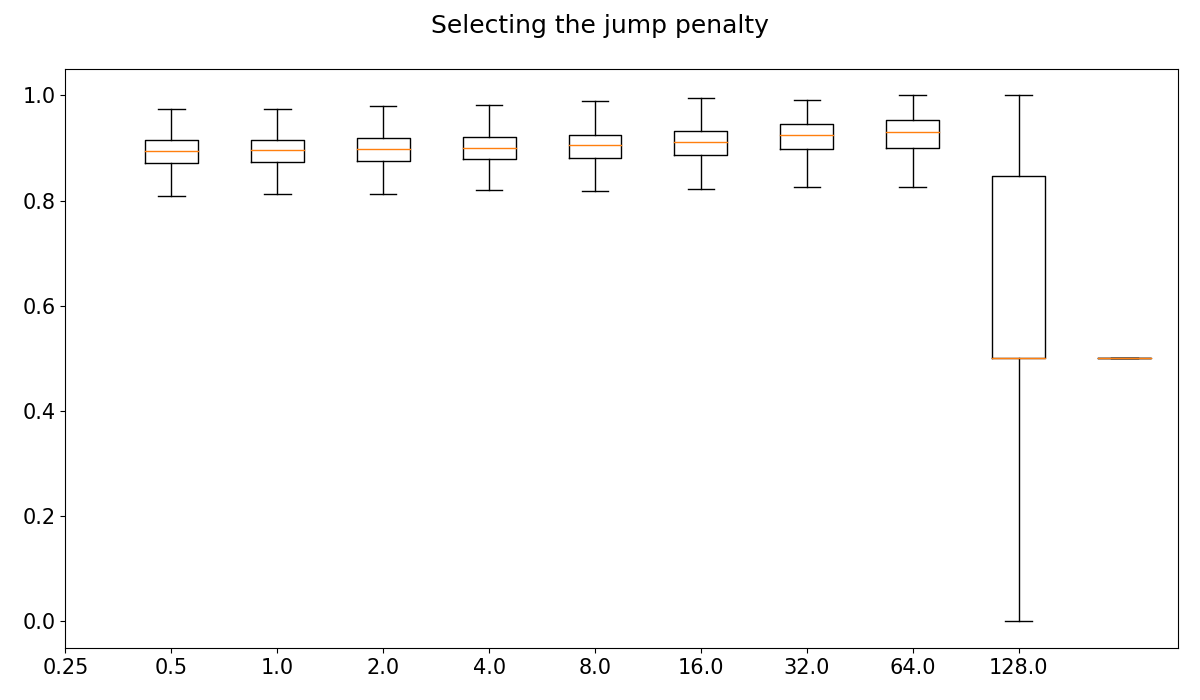
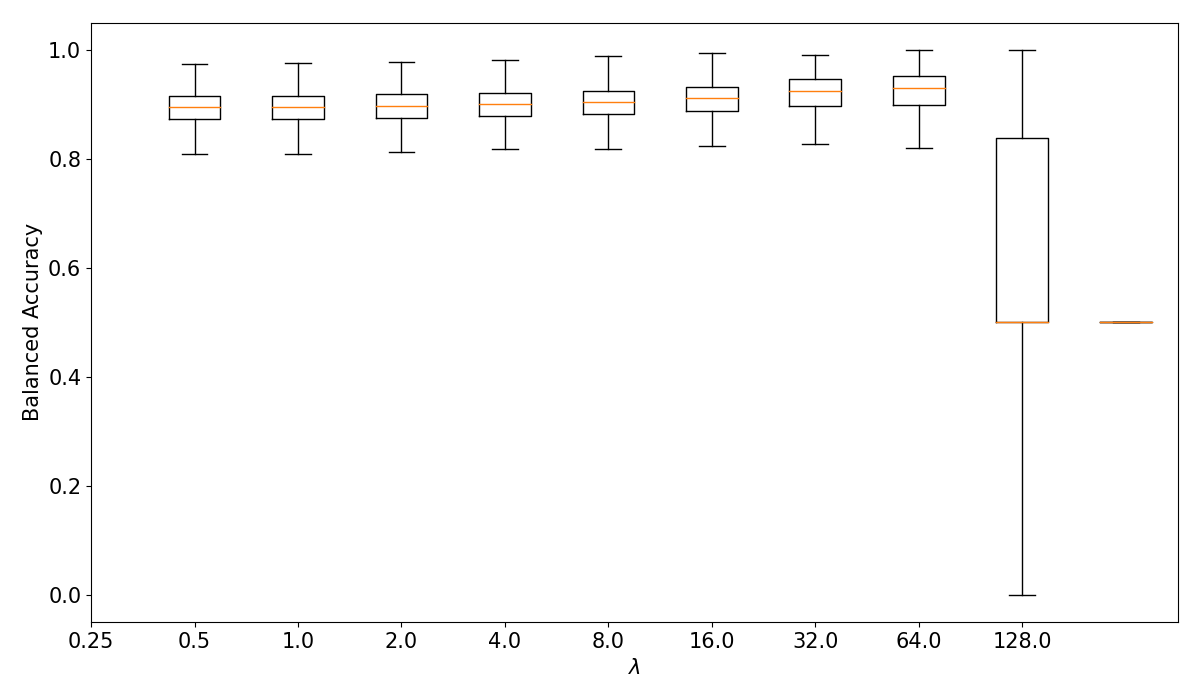
Updated output in simulation section

diff --git a/analysis/model_convergence/simulation.py b/analysis/model_convergence/simulation.py
@@ -13,46 +13,48 @@ import warnings
 warnings.filterwarnings("ignore")
 
 
-def test_model_convergence(jump, mle, X, sample_lengths=(250, 500, 1000, 2000)):
+def test_model_convergence(jump, mle, sampler, X, sample_lengths=(250, 500, 1000, 2000)):
     """ Test model convergence on simulated data """
     df = pd.DataFrame()
 
     # Set attributes to be saved in simulation
     cols = {
-        'mu_1': [], 'mu_2': [],
-        'std_1': [], 'std_2': [],
-        'tpm_11': [], 'tpm_22': []
+        '$\mu_1$': [], '$\mu_2$': [],
+        '$\std_1$': [], '$\std_2$': [],
+        '$q_11$': [], '$q_22$': []
     }
 
+    # Compute models params for each sample length
     for sample_length in tqdm.tqdm(sample_lengths):
         # Load empty dictionaries for each run
         data = {'jump': copy.deepcopy(cols),
                 'mle': copy.deepcopy(cols)
                 }
 
+        # Iterate through each sequence
         for seq in tqdm.tqdm(range(X.shape[1])):
             jump.fit(X[:sample_length, seq], sort_state_seq=True, get_hmm_params=True, verbose=True)
             mle.fit(X[:sample_length, seq], sort_state_seq=True, verbose=True)
 
-            data['jump']['mu_1'].append(jump.mu[0])
-            data['jump']['mu_2'].append(jump.mu[1])
-            data['jump']['std_1'].append(jump.std[0])
-            data['jump']['std_2'].append(jump.std[1])
-            data['jump']['tpm_11'].append(jump.tpm[0, 0])
+            data['jump']['$\mu_1$'].append(jump.mu[0])
+            data['jump']['$\mu_2$'].append(jump.mu[1])
+            data['jump']['$\std_1$'].append(jump.std[0])
+            data['jump']['$\std_2$'].append(jump.std[1])
+            data['jump']['$q_11$'].append(jump.tpm[0, 0])
             if len(jump.tpm) > 1:
-                data['jump']['tpm_22'].append(jump.tpm[1, 1])
+                data['jump']['$q_22$'].append(jump.tpm[1, 1])
             else:
-                data['jump']['tpm_22'].append(0)
+                data['jump']['$q_22$'].append(0)
 
-            data['mle']['mu_1'].append(mle.mu[0])
-            data['mle']['mu_2'].append(mle.mu[1])
-            data['mle']['std_1'].append(mle.std[0])
-            data['mle']['std_2'].append(mle.std[1])
-            data['mle']['tpm_11'].append(mle.tpm[0, 0])
+            data['mle']['$\mu_1$'].append(mle.mu[0])
+            data['mle']['$\mu_2$'].append(mle.mu[1])
+            data['mle']['$\std_1$'].append(mle.std[0])
+            data['mle']['$\std_2$'].append(mle.std[1])
+            data['mle']['$q_11$'].append(mle.tpm[0, 0])
             if len(mle.tpm) > 1:
-                data['mle']['tpm_22'].append(mle.tpm[1, 1])
+                data['mle']['$q_22$'].append(mle.tpm[1, 1])
             else:
-                data['mle']['tpm_22'].append(0)
+                data['mle']['$q_22$'].append(0)
 
         for model in data.keys():
             df_temp = pd.DataFrame(data[model])
@@ -64,43 +66,30 @@ def test_model_convergence(jump, mle, X, sample_lengths=(250, 500, 1000, 2000)):
     for sample_length in sample_lengths:
         true_data = \
             {'model': 'true',
-             'mu_1': sampler.mu[0],
-             'mu_2': sampler.mu[1],
-             'std_1': sampler.std[0],
-             'std_2': sampler.std[1],
-             'tpm_11': sampler.tpm[0, 0],
-             'tpm_22': sampler.tpm[1, 1],
+             '$\mu_1$': sampler.mu[0],
+             '$\mu_2$': sampler.mu[1],
+             '$\std_1$': sampler.std[0],
+             '$\std_2$': sampler.std[1],
+             '$q_11$': sampler.tpm[0, 0],
+             '$q_22$': sampler.tpm[1, 1],
              'sample_size': sample_length
              }
         df = df.append(pd.DataFrame(true_data, index=[0]))
 
     return df
 
-if __name__ == '__main__':
-    jump = JumpHMM(n_states=2, jump_penalty=16, window_len=(6, 14))
-    mle = EMHiddenMarkov(n_states=2)
-    sampler = SampleHMM(n_states=2)
-
-    path = '../../analysis/model_convergence/output_data/'
-    X = np.load(path + 'sampled_returns.npy')
-    true_states = np.load(path + 'sampled_true_states.npy')
-
-    df = pd.read_csv(path + 'simulation_normal.csv')
-    #df = test_model_convergence(jump, mle, X, sample_lengths=(250, 500, 1000, 2000))
-
-
-
+def plot_simulated_model_convergence(df, sampler, savefig=None):
     # Plotting
     plt.rcParams.update({'font.size': 15})
-    fig, ax = plt.subplots(3, 2, figsize=(15, 10), sharex=True)
+    fig, ax = plt.subplots(3, 2, figsize=(15, 12), sharex=True)
 
     # Set symbols on y-axis
     symbol_list = [['$\mu_1$', '$\mu_2$'],
-                   ['$\sigma^2_1$', '$\sigma^2_2$'],
+                   ['$\sigma_1$', '$\sigma_2$'],
                    ["$p_{11}$", "$p_{22}$"]]
 
     models = ['jump', 'mle']
-    colors = ['black', 'lightgrey'] #['#0051a2', '#97964a', '#ffd44f', '#f4777f', '#93003a']
+    colors = ['black', 'lightgrey']  # ['#0051a2', '#97964a', '#ffd44f', '#f4777f', '#93003a']
 
     for (model, color) in zip(models, colors):
         # Slice df to get desired column
@@ -125,10 +114,27 @@ if __name__ == '__main__':
     ax[-1, 0].set_xlabel('Simulation length')
     ax[-1, 1].set_xlabel('Simulation length')
     plt.tight_layout()
-    #plt.savefig('./images/simulation_normal.png')
+
+    if not savefig == None:
+        plt.savefig('./images/' + savefig)
     plt.show()
 
 
+if __name__ == '__main__':
+    jump = JumpHMM(n_states=2, jump_penalty=16, window_len=(6, 14))
+    mle = EMHiddenMarkov(n_states=2)
+    sampler = SampleHMM(n_states=2)
+
+    path = '../../analysis/model_convergence/output_data/'
+    X = np.load(path + 'sampled_returns.npy')
+    true_states = np.load(path + 'sampled_true_states.npy')
+
+    df = pd.read_csv(path + 'simulation_normal.csv')
+    #df = test_model_convergence(jump, mle, sampler, X, sample_lengths=(250, 500, 1000, 2000))
+
+    plot_simulated_model_convergence(df, sampler, savefig='simulation_normal.png')
+
+
     data_table = df.groupby(['sample_size', 'model']).mean().sort_index(ascending=[True, False])
-    #data_table.to_latex(path + 'simulation_normal.tex')
+    data_table.to_latex(path + 'simulation_normal.tex')
     print(data_table)

diff --git a/analysis/model_convergence/simulation_t_dist.py b/analysis/model_convergence/simulation_t_dist.py
@@ -6,75 +6,13 @@ import tqdm
 import matplotlib.pyplot as plt
 
 from utils.hmm_sampler import SampleHMM
+from analysis.model_convergence.simulation import test_model_convergence, plot_simulated_model_convergence
 from models.hidden_markov.hmm_gaussian_em import EMHiddenMarkov
 from models.hidden_markov.hmm_jump import JumpHMM
 
 import warnings
 warnings.filterwarnings("ignore")
 
-
-def test_model_convergence(jump, mle, X, sample_lengths=(250, 500, 1000, 2000)):
-    """ Test model convergence on simulated data """
-    df = pd.DataFrame()
-
-    # Set attributes to be saved in simulation
-    cols = {
-        'mu_1': [], 'mu_2': [],
-        'std_1': [], 'std_2': [],
-        'tpm_11': [], 'tpm_22': []
-    }
-
-    for sample_length in tqdm.tqdm(sample_lengths):
-        # Load empty dictionaries for each run
-        data = {'jump': copy.deepcopy(cols),
-                'mle': copy.deepcopy(cols)
-                }
-
-        for seq in tqdm.tqdm(range(X.shape[1])):
-            jump.fit(X[:sample_length, seq], sort_state_seq=True, get_hmm_params=True, verbose=True)
-            mle.fit(X[:sample_length, seq], sort_state_seq=True, verbose=True)
-
-            data['jump']['mu_1'].append(jump.mu[0])
-            data['jump']['mu_2'].append(jump.mu[1])
-            data['jump']['std_1'].append(jump.std[0])
-            data['jump']['std_2'].append(jump.std[1])
-            data['jump']['tpm_11'].append(jump.tpm[0, 0])
-            if len(jump.tpm) > 1:
-                data['jump']['tpm_22'].append(jump.tpm[1, 1])
-            else:
-                data['jump']['tpm_22'].append(0)
-
-            data['mle']['mu_1'].append(mle.mu[0])
-            data['mle']['mu_2'].append(mle.mu[1])
-            data['mle']['std_1'].append(mle.std[0])
-            data['mle']['std_2'].append(mle.std[1])
-            data['mle']['tpm_11'].append(mle.tpm[0, 0])
-            if len(mle.tpm) > 1:
-                data['mle']['tpm_22'].append(mle.tpm[1, 1])
-            else:
-                data['mle']['tpm_22'].append(0)
-
-        for model in data.keys():
-            df_temp = pd.DataFrame(data[model])
-            df_temp['model'] = model
-            df_temp['sample_size'] = sample_length
-            df = df.append(df_temp)
-
-    # Add true values to data
-    for sample_length in sample_lengths:
-        true_data = \
-            {'model': 'true',
-             'mu_1': sampler.mu[0],
-             'mu_2': sampler.mu[1],
-             'std_1': sampler.std[0],
-             'std_2': sampler.std[1],
-             'tpm_11': sampler.tpm[0, 0],
-             'tpm_22': sampler.tpm[1, 1],
-             'sample_size': sample_length
-             }
-        df = df.append(pd.DataFrame(true_data, index=[0]))
-
-    return df
 
 if __name__ == '__main__':
     jump = JumpHMM(n_states=2, jump_penalty=16, window_len=(6, 14))
@@ -86,46 +24,11 @@ if __name__ == '__main__':
     true_states = np.load(path + 'sampled_t_true_states.npy')
 
     df = pd.read_csv(path + 'simulation_t.csv')
-    #df = test_model_convergence(jump, mle, X, sample_lengths=(250, 500, 1000, 2000))
+    df = test_model_convergence(jump, mle, sampler, X, sample_lengths=(250, 500, 1000, 2000))
 
-    # Plotting
-    plt.rcParams.update({'font.size': 15})
-    fig, ax = plt.subplots(3, 2, figsize=(15, 10), sharex=True)
-
-    # Set symbols on y-axis
-    symbol_list = [['$\mu_1$', '$\mu_2$'],
-                   ['$\sigma^2_1$', '$\sigma^2_2$'],
-                   ["$p_{11}$", "$p_{22}$"]]
-
-    models = ['jump', 'mle']
-    colors = ['black', 'lightgrey'] #['#0051a2', '#97964a', '#ffd44f', '#f4777f', '#93003a']
-
-    for (model, color) in zip(models, colors):
-        # Slice df to get desired column
-        to_plot = df[df['model'] == model]
-        to_plot = to_plot.groupby('sample_size').mean()
-        k = 0  # columns indexer
-        for i in range(3):
-            for j in range(2):
-                to_plot1 = to_plot.iloc[:, k]  # column to plot
-                ax[i, j].plot(to_plot1, label=str(model), color=color)
-                ax[i, j].set_ylabel(symbol_list[i][j])
-                k += 1
-
-    # Plot true values
-    for i in range(2):
-        ax[0, i].axhline(y=sampler.mu[i], ls="--", color="black", label='True')
-        ax[1, i].axhline(y=sampler.std[i], ls="--", color="black", label='True')
-        ax[2, i].axhline(y=sampler.tpm[i, i], ls="--", color="black", label='True')
-
-    ax[0, 0].legend()
-    ax[-1, 0].set_xlabel('Simulation length')
-    ax[-1, 1].set_xlabel('Simulation length')
-    plt.tight_layout()
-    #plt.savefig('./images/simulation_t.png')
-    plt.show()
+    plot_simulated_model_convergence(df, sampler, savefig='simulation_t.png')
 
 
     data_table = df.groupby(['sample_size', 'model']).mean().sort_index(ascending=[True, False])
-    #data_table.to_latex(path + 'simulation_t.tex')
+    data_table.to_latex(path + 'simulation_t.tex')
     print(data_table)

diff --git a/analysis/model_convergence/output_data/simulation_t.tex b/analysis/model_convergence/output_data/simulation_t.tex
@@ -1,6 +1,6 @@
 \begin{tabular}{llrrrrrr}
 \toprule
-     &      &      mu\_1 &      mu\_2 &     std\_1 &     std\_2 &    tpm\_11 &    tpm\_22 \\
+     &      &   \$\textbackslash mu\_1\$ &   \$\textbackslash mu\_2\$ &  \$\textbackslash std\_1\$ &  \$\textbackslash std\_2\$ &    \$q\_11\$ &    \$q\_22\$ \\
 sample\_size & model &           &           &           &           &           &           \\
 \midrule
 250  & true &  0.000615 & -0.000785 &  0.007759 &  0.017397 &  0.997900 &  0.988000 \\
@@ -12,7 +12,7 @@ sample\_size & model &           &           &           &           &          
      & jump &  0.000640 & -0.000103 &  0.009677 &  0.019699 &  0.985360 &  0.945942 \\
      \\
 1000 & true &  0.000615 & -0.000785 &  0.007759 &  0.017397 &  0.997900 &  0.988000 \\
-     & mle &  0.001770 &  0.002350 &  0.014659 &  0.014972 &  0.798121 &  0.789508 \\
+     & mle &  0.001769 &  0.002351 &  0.014671 &  0.014961 &  0.797976 &  0.789653 \\
      & jump &  0.000648 & -0.000627 &  0.009694 &  0.021009 &  0.988130 &  0.946477 \\
      \\
 2000 & true &  0.000615 & -0.000785 &  0.007759 &  0.017397 &  0.997900 &  0.988000 \\

diff --git a/analysis/model_convergence/jump_penalty.py b/analysis/model_convergence/jump_penalty.py
@@ -62,19 +62,25 @@ if __name__ == '__main__':
     for i, sample_length in enumerate(sample_lengths):
         ax.plot(penalties, np.mean(bac_outer[i], axis=1), label=str(sample_length))
 
-    ax.legend()
 
-    plt.suptitle(f"Selecting the jump penalty")
+    ax.set_xlabel('$\lambda$')
+    ax.set_ylabel('Balanced Accuracy')
+
+    ax.legend()
     plt.tight_layout()
+    plt.savefig('./images/jump_penalties.png')
     plt.show()
 
     #Plot boxplot
     fig, ax = plt.subplots(figsize=(12, 7))
     ax.boxplot(bac_outer[-1], showfliers=False)
 
+    ax.set_xlabel('$\lambda$')
+    ax.set_ylabel('Balanced Accuracy')
+
     plt.xticks(list(range(len(penalties))), penalties)
-    plt.suptitle(f"Selecting the jump penalty")
     plt.tight_layout()
+    plt.savefig('./images/jump_penalties_box.png')
     plt.show()
 
 
